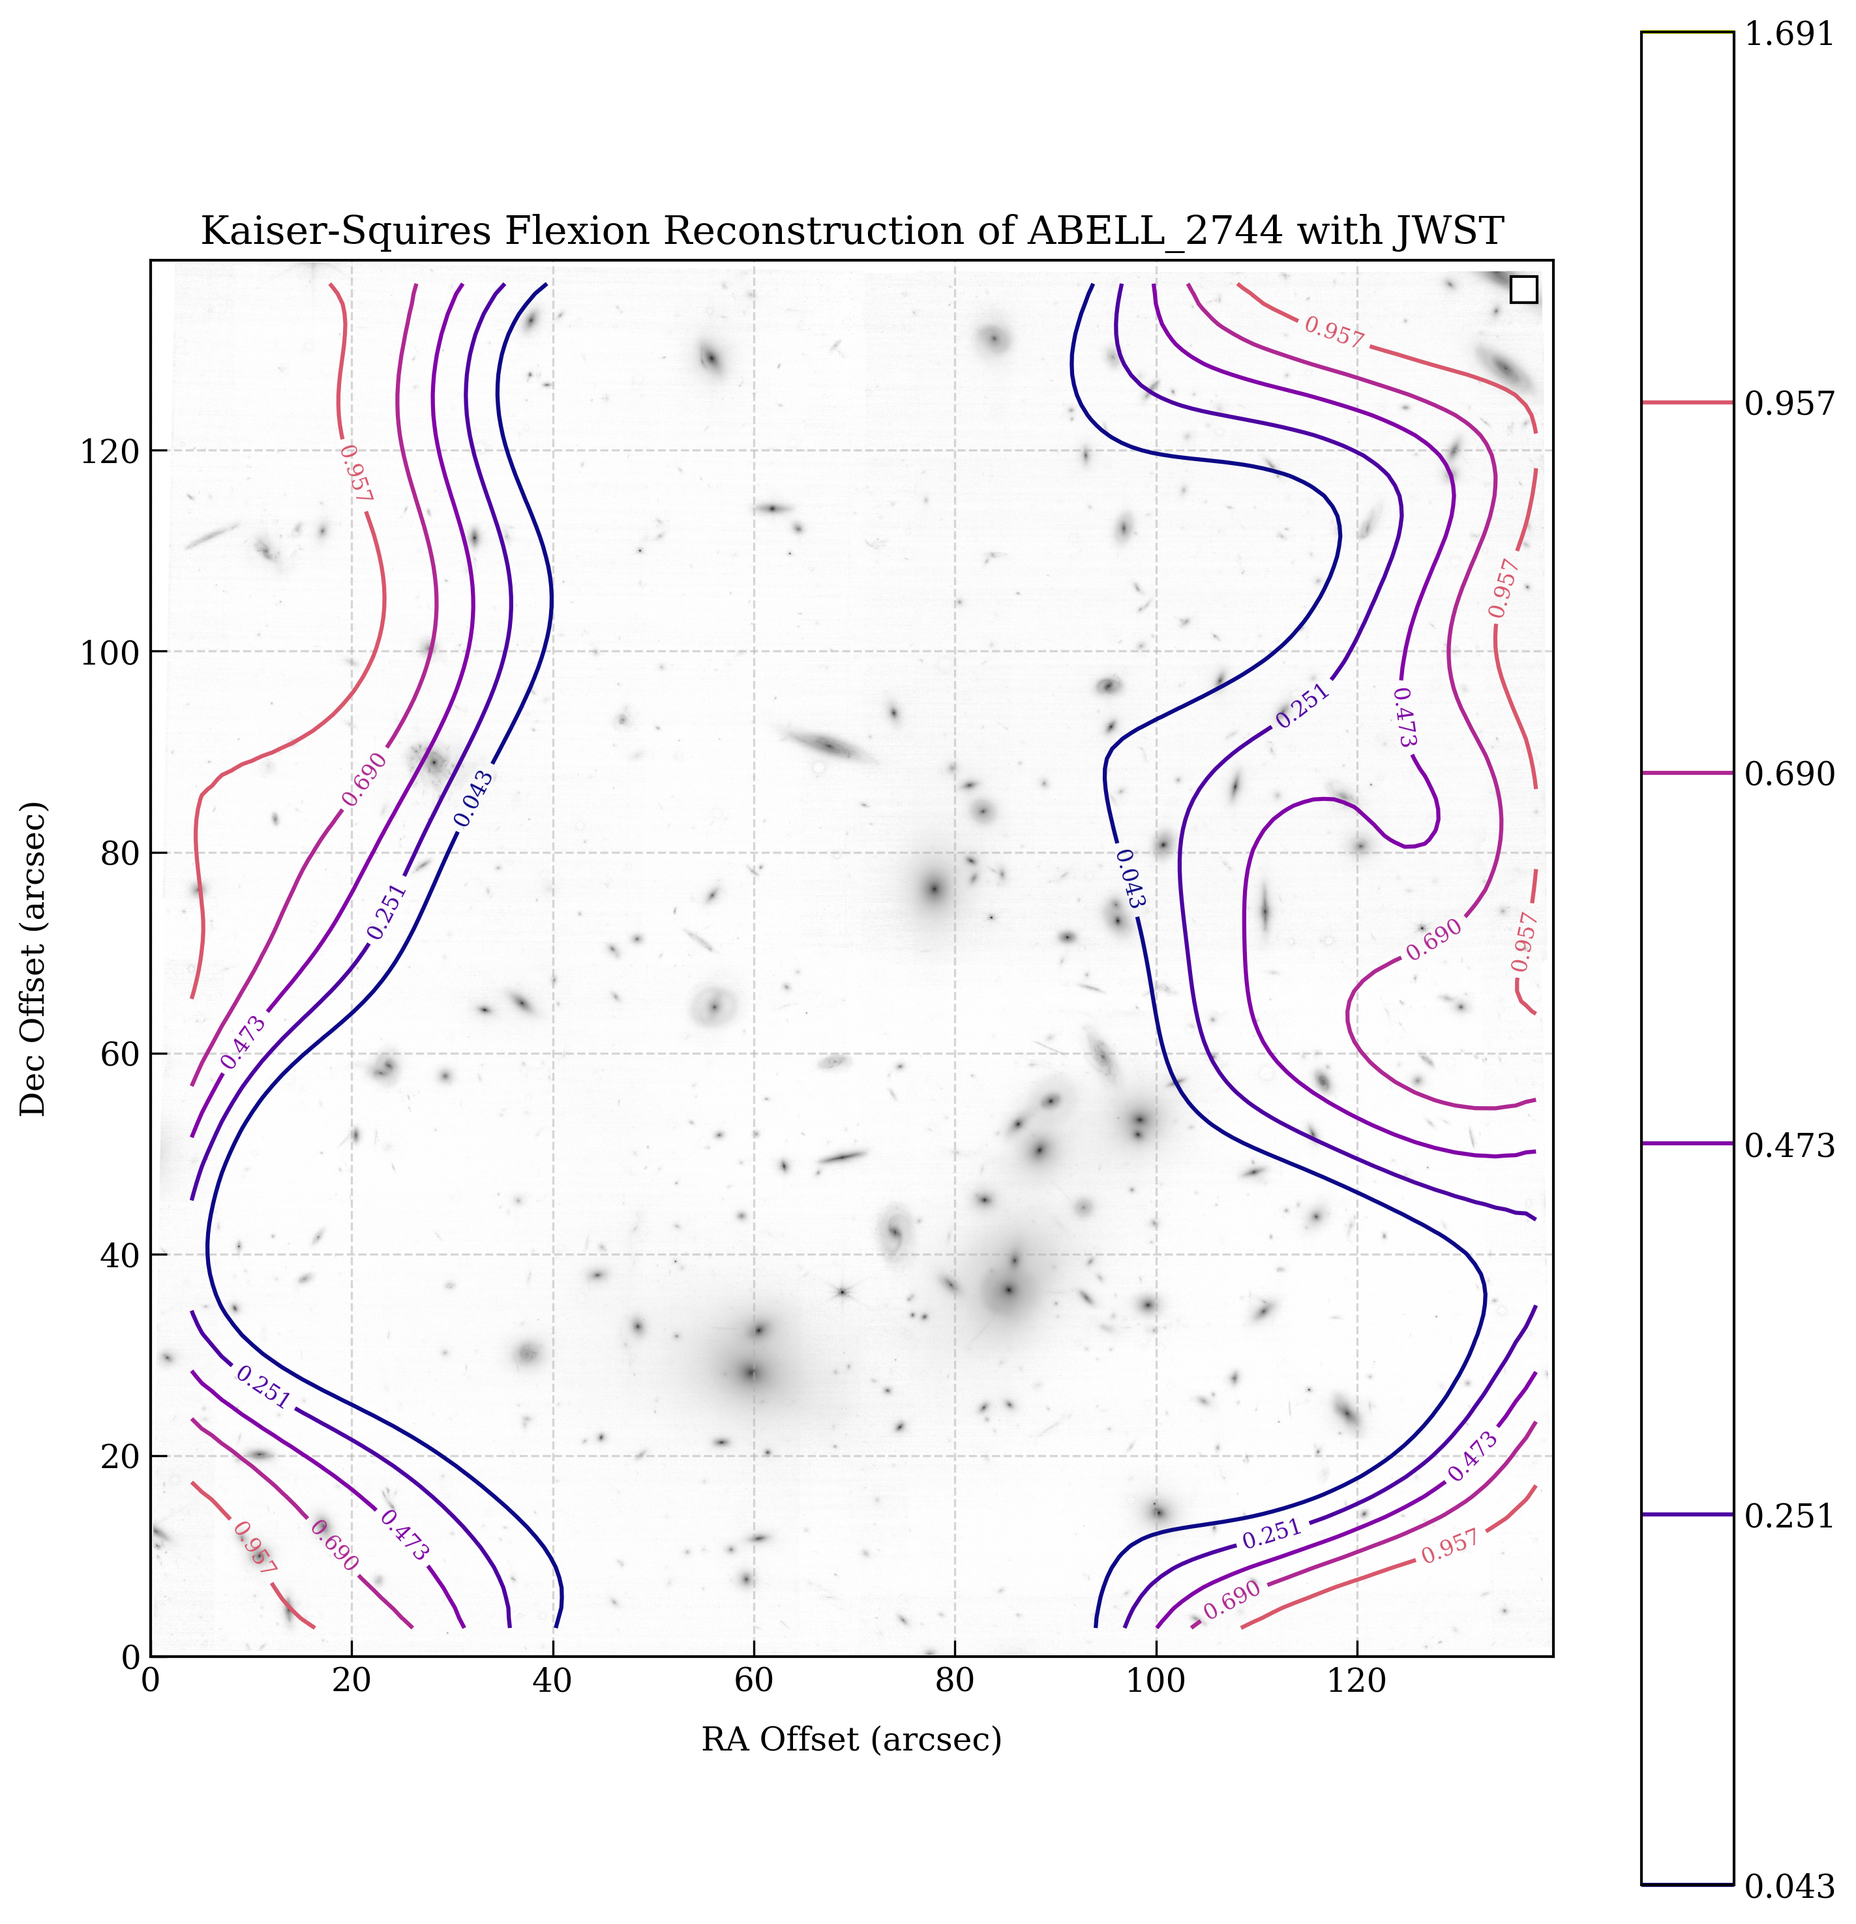
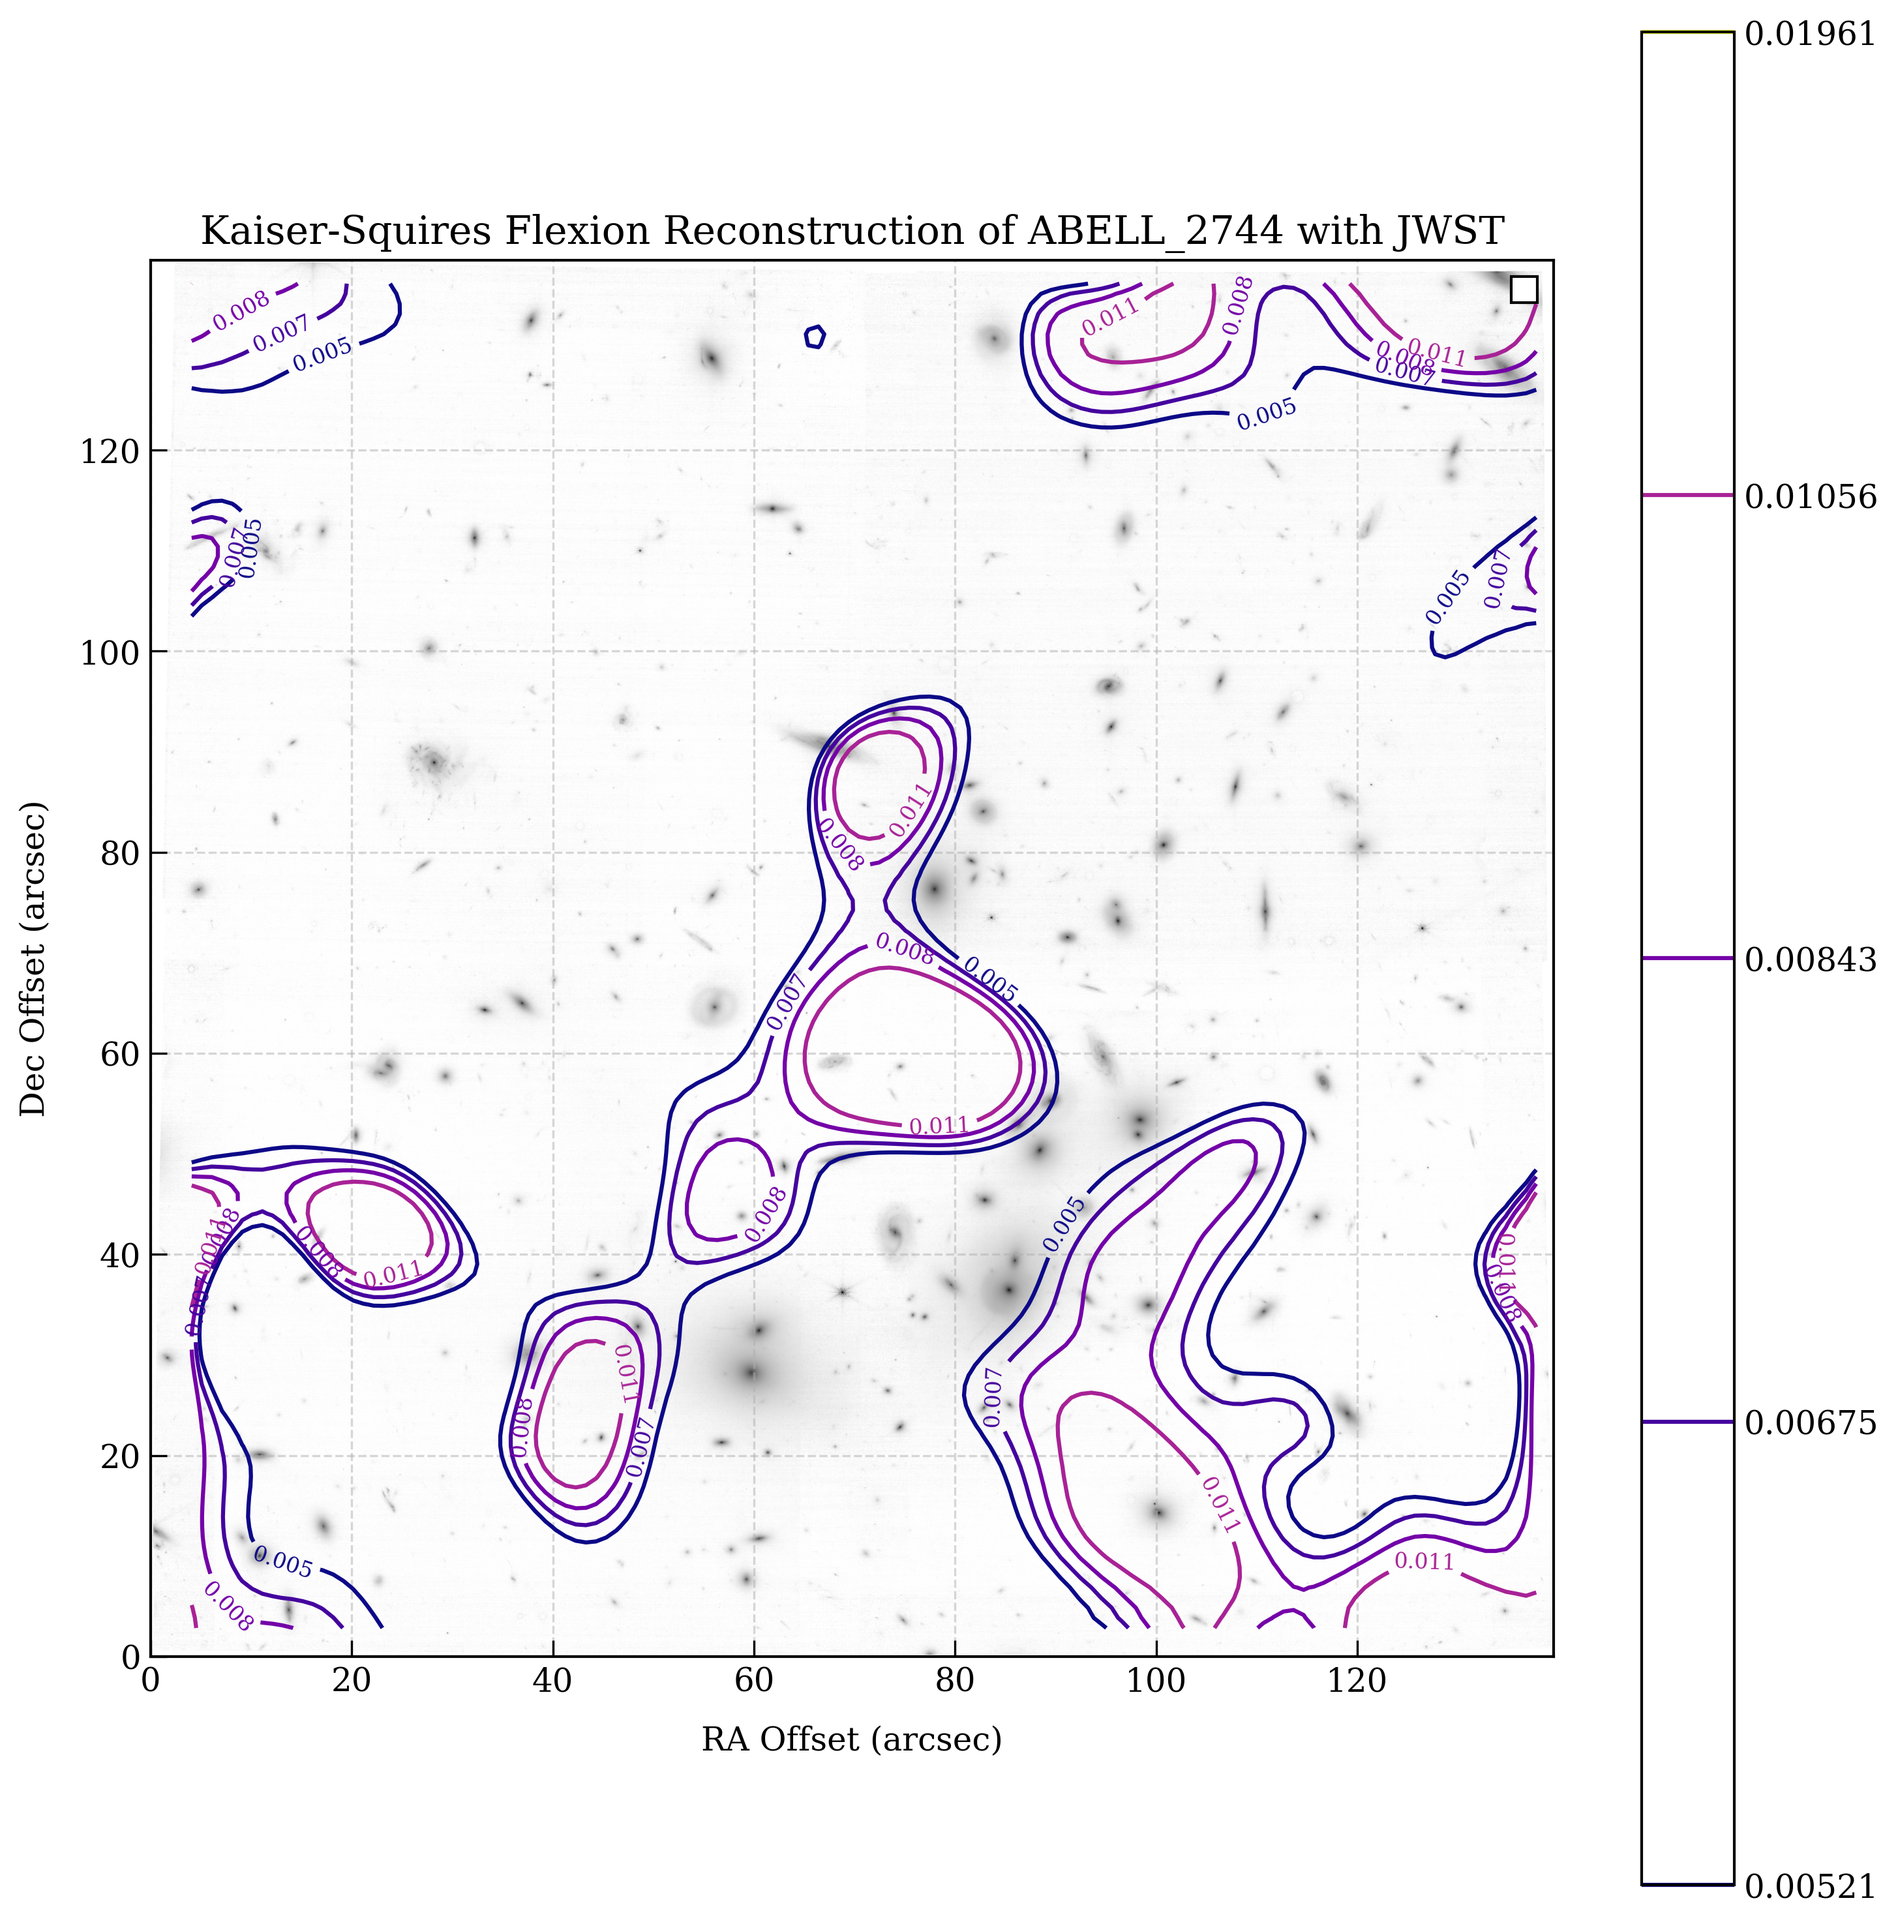
Add Fourier transform methods for shear and flexion reconstruction
- Implemented shear_from_kappa function to compute shear from convergence using Fourier transforms.
- Added flexion_from_kappa function to calculate flexion as the gradient of convergence.
- Created a test script to generate a sine wave kappa and visualize the results of shear and flexion reconstructions.
- Included plots for flexion reconstruction, true kappa, and their differences, as well as shear reconstruction and its difference from true kappa.
- Added color normalization across all visualizations for consistency.
- Saved the resulting figure as 'test_fourier_code.png'.

diff --git a/test_fourier_code.py b/test_fourier_code.py
@@ -1,0 +1,89 @@
+import numpy as np
+import matplotlib.pyplot as plt
+import utils
+import source_obj
+
+def shear_from_kappa(kappa):
+    kappa_ft = np.fft.fft2(kappa)
+    ny, nx = kappa.shape
+    lx = np.fft.fftfreq(nx) * 2 * np.pi * nx / (2 * xmax)
+    ly = np.fft.fftfreq(ny) * 2 * np.pi * ny / (2 * xmax)
+    Lx, Ly = np.meshgrid(lx, ly)
+    L2 = Lx**2 + Ly**2
+    L2[0, 0] = 1  # avoid division by zero
+
+    D = (Lx + 1j * Ly)**2 / L2
+    gamma_ft = D * kappa_ft
+    gamma = np.fft.ifft2(gamma_ft)
+    return np.real(gamma), np.imag(gamma)
+
+def flexion_from_kappa(kappa):
+    # Flexion is just the gradient of the convergence
+    kappa = np.array(kappa)
+    flexion_1 = np.gradient(kappa, axis=1)
+    flexion_2 = np.gradient(kappa, axis=0)
+    return flexion_1, flexion_2
+
+
+if __name__ == '__main__':
+    xmax = 50  # size of the grid
+
+    # create a grid
+    x = np.linspace(-xmax, xmax, 2 * xmax) 
+    y = np.linspace(-xmax, xmax, 2 * xmax) 
+    X, Y = np.meshgrid(x, y)
+
+    # Create a sine wave kappa
+    wavelength = 5
+    kappa = np.sin(np.sqrt(X**2 + Y**2) / wavelength)
+
+    # From the convergence, determine the shear and flexion
+    flexion1, flexion2 = flexion_from_kappa(kappa)
+    gamma1, gamma2 = shear_from_kappa(kappa)
+    # Turn into source objects
+    sources = source_obj.Source(X.flatten(), Y.flatten(), gamma1.flatten(), gamma2.flatten(), flexion1.flatten(), flexion2.flatten(), 
+                                np.zeros(X.flatten().shape), np.zeros(X.flatten().shape), np.zeros(X.flatten().shape), np.zeros(X.flatten().shape), np.zeros(X.flatten().shape))
+    X1,Y1,kappa_f = utils.perform_kaiser_squire_reconstruction(sources, [-xmax, xmax, -xmax, xmax], 'flexion', smoothing_sigma = 0)
+    X2,Y2,kappa_s = utils.perform_kaiser_squire_reconstruction(sources, [-xmax, xmax, -xmax, xmax], 'shear', smoothing_sigma = 0)
+
+    # Determine common color limits across all relevant arrays
+    vmin = min(np.min(kappa_f), np.min(kappa), np.min(kappa_f - kappa),
+            np.min(kappa_s), np.min(kappa_s - kappa))
+    vmax = max(np.max(kappa_f), np.max(kappa), np.max(kappa_f - kappa),
+            np.max(kappa_s), np.max(kappa_s - kappa))
+
+    # plot the results
+    fig, ax = plt.subplots(2, 3, figsize=(20, 6))
+
+    # Row 1
+    im = ax[0,0].imshow(kappa_f, extent=[np.min(X1), np.max(X1), np.min(Y1), np.max(Y1)], origin='lower', cmap='viridis', vmin=vmin, vmax=vmax)
+    ax[0,0].set_title('Flexion Reconstruction')
+    ax[0,0].set_xlabel('X Position')
+    ax[0,0].set_ylabel('Y Position')
+
+    ax[0,1].imshow(kappa, extent=[-xmax, xmax, -xmax, xmax], origin='lower', cmap='viridis', vmin=vmin, vmax=vmax)
+    ax[0,1].set_title('True Kappa')
+    ax[0,1].set_xlabel('X Position')
+
+    ax[0,2].imshow(kappa_f - kappa, extent=[-xmax, xmax, -xmax, xmax], origin='lower', cmap='viridis', vmin=vmin, vmax=vmax)
+    ax[0,2].set_title('Difference')
+
+    # Row 2
+    ax[1,0].imshow(kappa_s, extent=[-xmax, xmax, -xmax, xmax], origin='lower', cmap='viridis', vmin=vmin, vmax=vmax)
+    ax[1,0].set_title('Shear Reconstruction')
+
+    ax[1,1].imshow(kappa, extent=[-xmax, xmax, -xmax, xmax], origin='lower', cmap='viridis', vmin=vmin, vmax=vmax)
+    ax[1,1].set_title('True Kappa')
+
+    ax[1,2].imshow(kappa_s - kappa, extent=[-xmax, xmax, -xmax, xmax], origin='lower', cmap='viridis', vmin=vmin, vmax=vmax)
+    ax[1,2].set_title('Difference')
+
+    # Add a single colorbar for all images
+    cbar_ax = fig.add_axes([0.92, 0.15, 0.02, 0.7])  # [left, bottom, width, height]
+    fig.colorbar(im, cax=cbar_ax)
+
+    plt.tight_layout(rect=[0, 0, 0.9, 1])
+
+    # Save the figure
+    plt.savefig('test_fourier_code.png', dpi=300, bbox_inches='tight')
+    plt.show()

diff --git a/utils.py b/utils.py
@@ -213,20 +213,19 @@ def CIC_2d(fsize, npixels, xpos, ypos, signal_values):
     drow = row - irow
     dcol = col - icol
 
-    for dr in [0, 1]:
-        for dc in [0, 1]:
-            w = (
-                (1 - drow if dr == 0 else drow) *
-                (1 - dcol if dc == 0 else dcol)
-            )
-            r_idx = irow + dr
-            c_idx = icol + dc
+    index = np.vstack([irow, icol])
+    unique_indices, unique_inverse, counts = np.unique(index, axis=1, return_inverse=True, return_counts=True)
+    output = counts[np.searchsorted(unique_indices[0], index[0])]
+    signal_values /= output
 
-            # Filter valid indices
-            mask = (r_idx >= 0) & (r_idx < npixels) & (c_idx >= 0) & (c_idx < npixels)
-            np.add.at(grid, (r_idx[mask], c_idx[mask]), signal_values[mask] * w[mask])
+    # Perform accumulation using advanced indexing and broadcasting
+    grid[unique_indices[0] % npixels, unique_indices[1]% npixels] += np.bincount(unique_inverse, weights=(1 - drow) * (1 - dcol) * signal_values, minlength=len(unique_indices.T))
+    grid[(unique_indices[0] + 1)% npixels, unique_indices[1]% npixels] += np.bincount(unique_inverse, weights=(drow) * (1 - dcol) * signal_values, minlength=len(unique_indices.T))
+    grid[unique_indices[0]% npixels, (unique_indices[1] + 1)% npixels] += np.bincount(unique_inverse, weights=(1 - drow) * (dcol) * signal_values, minlength=len(unique_indices.T))
+    grid[(unique_indices[0] + 1)% npixels, (unique_indices[1] + 1)% npixels] += np.bincount(unique_inverse, weights=(drow) * (dcol) * signal_values, minlength=len(unique_indices.T))
 
     return grid
+
 
 def convolve_image(img, kernel):
     """
@@ -834,8 +833,8 @@ def perform_kaiser_squire_reconstruction(sources, extent, signal='flexion', smoo
     npixels = int(fsize)
     dx = fsize / npixels
 
-    x_s_rel = x_s - xmin
-    y_s_rel = y_s - ymin
+    x_s_rel = x_s - xmin - 0.5 * dx
+    y_s_rel = y_s - ymin - 0.5 * dx
 
     # Bin signal components
     S1_grid = CIC_2d(fsize=fsize, npixels=npixels, xpos=x_s_rel, ypos=y_s_rel, signal_values=S1)
@@ -850,11 +849,11 @@ def perform_kaiser_squire_reconstruction(sources, extent, signal='flexion', smoo
     ft_S1 = np.fft.fft2(S1_grid, norm='ortho')
     ft_S2 = np.fft.fft2(S2_grid, norm='ortho')
 
-    lx = np.fft.fftfreq(npixels, d=dx)
-    ly = np.fft.fftfreq(npixels, d=dx) 
+    lx = np.fft.fftfreq(npixels, d=dx) * 2 * np.pi
+    ly = np.fft.fftfreq(npixels, d=dx) * 2 * np.pi
     Lx, Ly = np.meshgrid(lx, ly, indexing='xy')
     l_squared = Lx**2 + Ly**2
-    l_squared[l_squared == 0] = 1e-10  # avoid division by zero
+    l_squared[0,0] = 0  # avoid division by zero
 
     # Fourier-space inversion kernel
     if signal in ['flexion', 'g_flexion']:
@@ -862,7 +861,8 @@ def perform_kaiser_squire_reconstruction(sources, extent, signal='flexion', smoo
     elif signal == 'shear':
         ft_kappa = ((Lx**2 - Ly**2) * ft_S1 + 2 * Lx * Ly * ft_S2) / l_squared
 
-    kappa = np.fft.ifft2(ft_kappa, norm='ortho').real * (2*np.pi)**2
+    ft_kappa[0, 0] = 0  # avoid division by zero
+    kappa = np.fft.ifft2(ft_kappa, norm='ortho').real 
 
     # Output coordinates (pixel centers)
     x = np.linspace(xmin + 0.5 * dx, xmax - 0.5 * dx, npixels)

diff --git a/read_jwst.py b/read_jwst.py
@@ -176,11 +176,9 @@ class JWSTPipeline:
             sigs=dummy, sigf=dummy, sigg=dummy
         )
         
-        max_flexion = 0.15
-        if self.cluster_name == 'ABELL_2744':
-            max_flexion = 0.2
+        max_flexion = 0.5
         # Remove sources with flexion > max_flexion
-        bad_indices = self.sources.filter_sources(max_flexion=0.1)
+        bad_indices = self.sources.filter_sources(max_flexion=max_flexion)
         self.a = np.delete(self.a, bad_indices) # We also need to remove the bad indices from the a array (not part of the source object)
 
         sigs = np.full_like(self.sources.e1, np.mean([np.std(self.sources.e1), np.std(self.sources.e2)]))
@@ -280,7 +278,7 @@ class JWSTPipeline:
             )
             
             # Overlay convergence contours
-            contour_levels = np.percentile(convergence[2], np.linspace(60, 100, 6))
+            contour_levels = np.linspace(0, 0.1, 10)
             contours = ax.contour(
                 convergence[0], convergence[1], convergence[2], levels=contour_levels, cmap='plasma', linewidths=1.5
             )
@@ -311,14 +309,17 @@ class JWSTPipeline:
         # utils.compare_mass_estimates(self.lenses, plot_name, plot_title, self.cluster_name)
 
         # Create a comparison by doing a kaiser squires transformation to get kappa from the flexion
+        avg_source_density = len(self.sources.x) / (np.pi/4 * np.max(np.hypot(self.sources.x, self.sources.y))**2)
+        smoothing_scale = 1 / (avg_source_density)**0.5
+
         kappa_extent = [min(self.sources.x), max(self.sources.x), min(self.sources.y), max(self.sources.y)]
-        X, Y, kappa_ks = utils.perform_kaiser_squire_reconstruction(self.sources, extent=kappa_extent, signal='flexion')
+        X, Y, kappa_ks = utils.perform_kaiser_squire_reconstruction(self.sources, extent=kappa_extent, signal='flexion', smoothing_sigma=smoothing_scale)
         title = 'Kaiser-Squires Flexion Reconstruction of {} with JWST'.format(self.cluster_name)
         save_title = self.output_dir / 'ks_flex_{}.png'.format(self.cluster_name)
         plot_cluster([X,Y,kappa_ks], title, save_title)
 
         # Do this for the shear as well
-        X, Y, kappa_shear = utils.perform_kaiser_squire_reconstruction(self.sources, extent=kappa_extent, signal='shear')
+        X, Y, kappa_shear = utils.perform_kaiser_squire_reconstruction(self.sources, extent=kappa_extent, signal='shear', smoothing_sigma=smoothing_scale)
         title = 'Kaiser-Squires Shear Reconstruction of {} with JWST'.format(self.cluster_name)
         save_title = self.output_dir / 'ks_shear_{}.png'.format(self.cluster_name)
         plot_cluster([X,Y,kappa_shear], title, save_title)
@@ -380,4 +381,4 @@ if __name__ == '__main__':
         # Print completion message
         '''
         print(f"Finished running pipeline for signal choice: {signal}")
-        # raise SystemExit("Exiting after running for all signals. Remove this line to run for each signal separately.")
+        raise SystemExit("Exiting after running for all signals. Remove this line to run for each signal separately.")

diff --git a/tests_NFW.py b/tests_NFW.py
@@ -655,45 +655,6 @@ def test_source_sep():
 
 if __name__ == '__main__':
     # run_simple_tests()
-
-    # Create a very simple system
-    Nlens = 1
-    Nsource = 100
-    xmax = 50
-    lens_mass = 1e14
-    true_lenses, sources, noisy = build_standardized_field(Nlens, Nsource, lens_mass, xmax, use_noise=False)
-
-    # Run a kaiser squires reconstruction
-    X, Y, kappa = utils.perform_kaiser_squire_reconstruction(sources, [-xmax, xmax, -xmax, xmax], 'flexion', smoothing_sigma=5)
-
-    X, Y, kappa_true = utils.calculate_kappa(true_lenses, [-xmax, xmax, -xmax, xmax], lens_type = 'NFW')
-
-    # print the kappa at the origin (remember the origin is at the center of the grid)
-    origin_x = int(len(X) / 2)
-    origin_y = int(len(Y) / 2)
-    kappa_origin_recon = kappa[origin_x, origin_y]
-    kappa_origin_true = kappa_true[origin_x, origin_y]
-    print(f'Kappa at origin: {kappa_origin_recon}')
-    print(f'True kappa at origin: {kappa_origin_true}')
-    print(f'Ratio: {kappa_origin_recon / kappa_origin_true}')
-
-    # plot the results
-    fig, ax = plt.subplots(1, 3, figsize=(20, 6))
-    fig.suptitle('Kaiser Squires Reconstruction - Flexion')
-    cbar = ax[0].imshow(kappa, extent=[-xmax, xmax, -xmax, xmax], origin='lower', cmap='viridis')
-    plt.colorbar(cbar, ax=ax[0])
-    ax[0].set_title('Kaiser Squires Reconstruction')
-    cbar = ax[1].imshow(kappa_true, extent=[-xmax, xmax, -xmax, xmax], origin='lower', cmap='viridis')
-    plt.colorbar(cbar, ax=ax[1])
-    ax[1].set_title('True Kappa')
-    cbar = ax[2].imshow(kappa - kappa_true, extent=[-xmax, xmax, -xmax, xmax], origin='lower', cmap='viridis')
-    plt.colorbar(cbar, ax=ax[2])
-    ax[2].set_title('Difference')
-    plt.tight_layout()
-    plt.savefig('Output/NFW_tests/random_realization/kaiser_squires.png')
-    plt.show()
-
-    raise SystemExit
     
     Ntrial = 1000
     Nlenses = [1]
